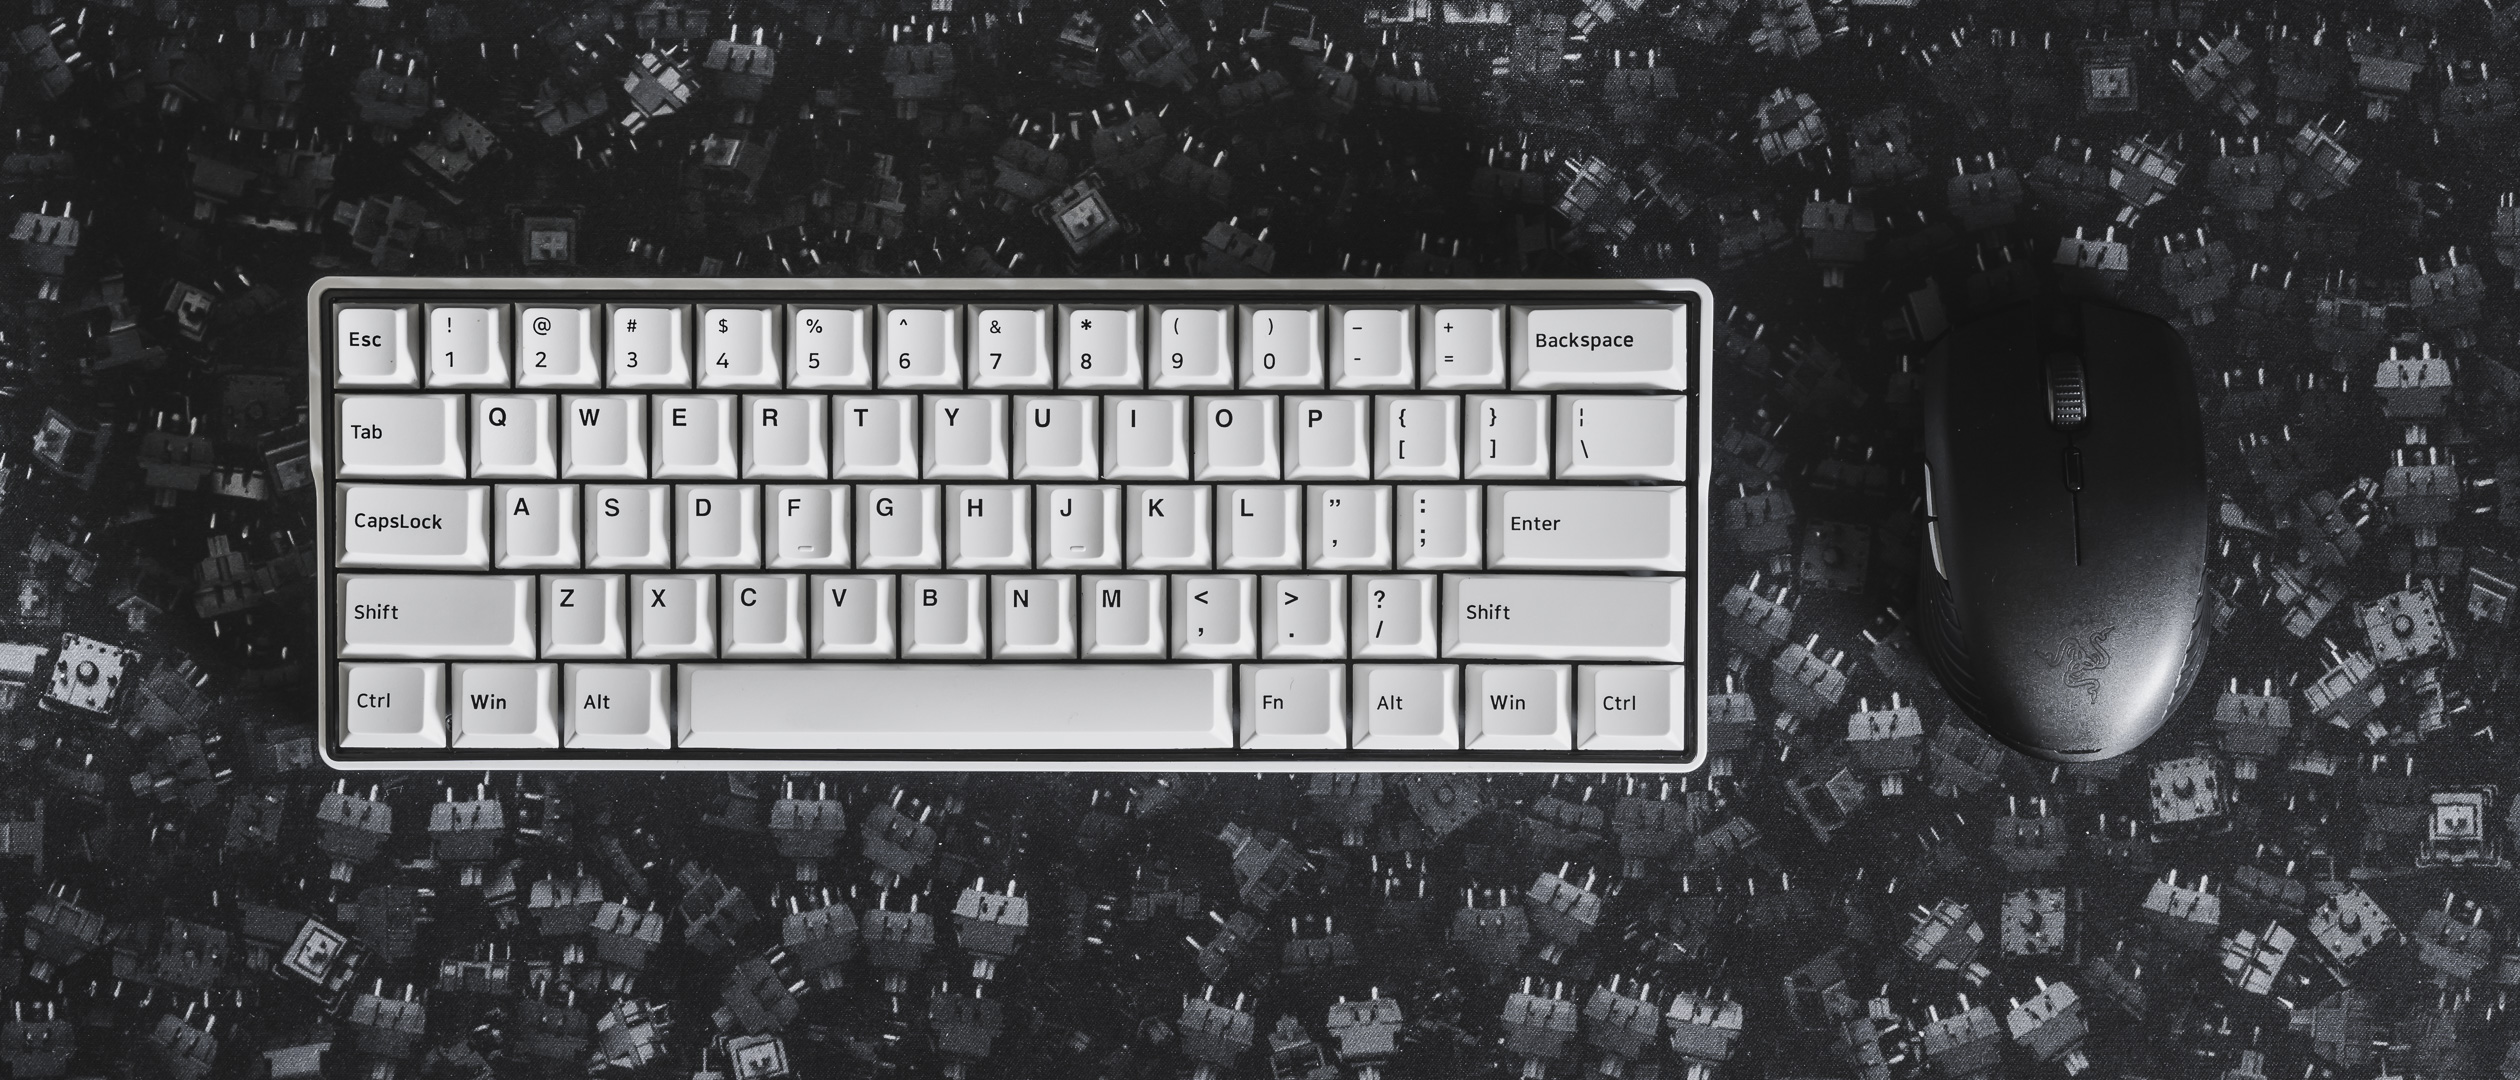
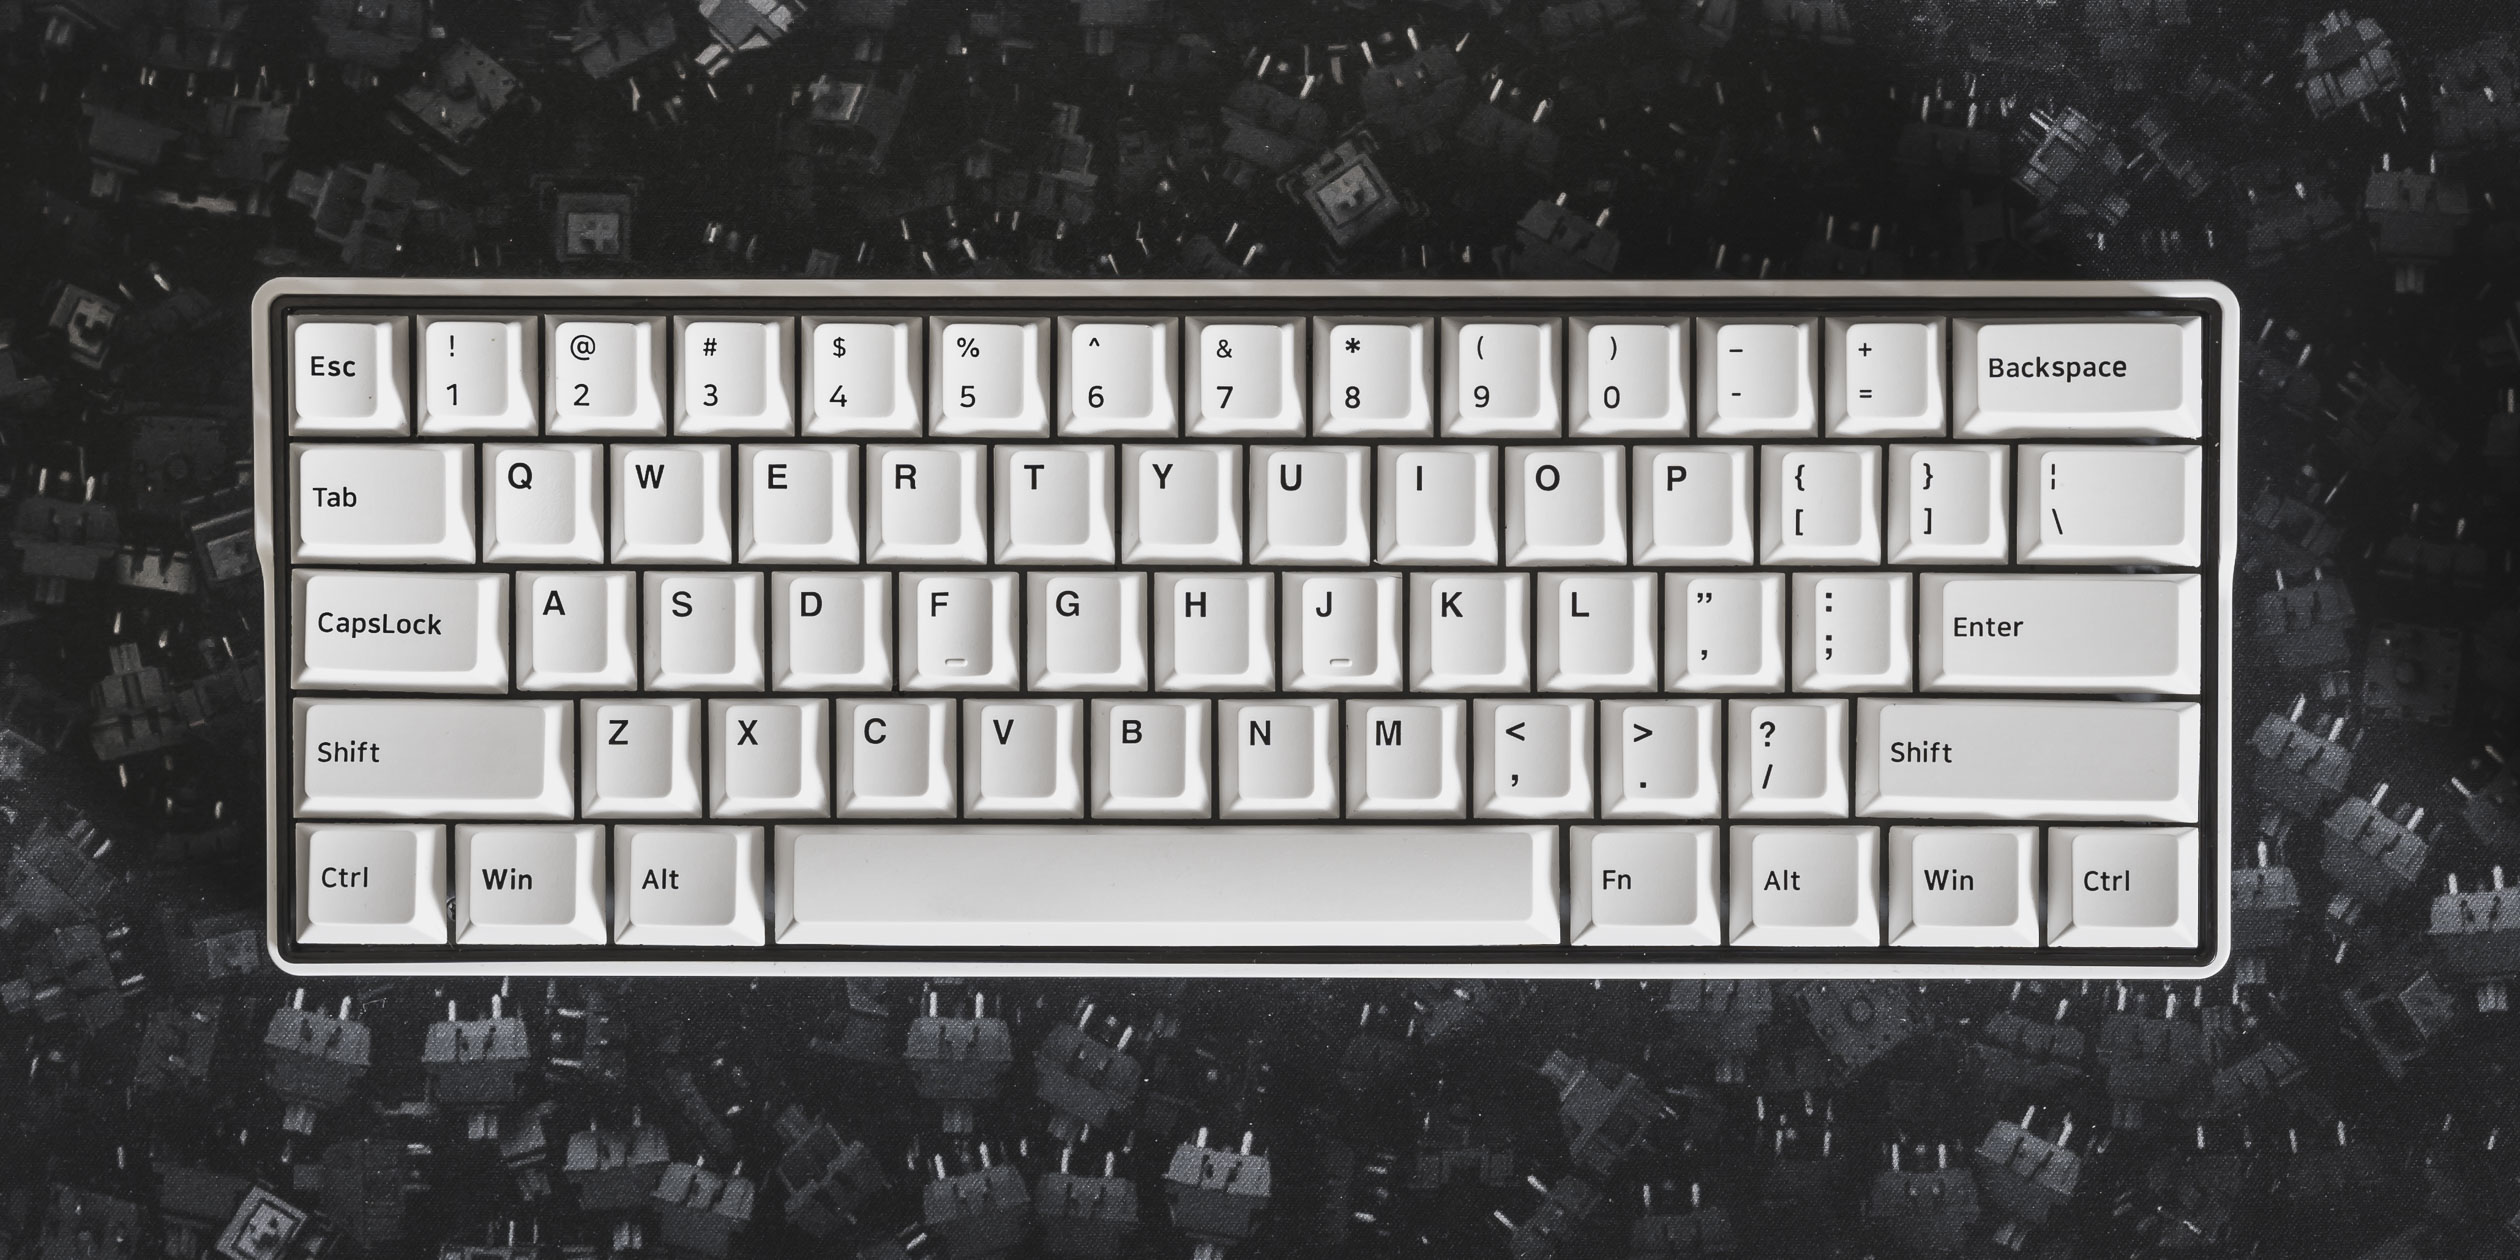
changed font and updated keyboard photo

diff --git a/index.html b/index.html
@@ -5,6 +5,7 @@
     <meta name="viewport" content="width=device-width, initial-scale=1">
     <title>Nathan Baker</title>
     <link rel="stylesheet" href="https://fonts.googleapis.com/css?family=Cairo">
+    <link rel="stylesheet" href="https://fonts.googleapis.com/css?family=Source+Sans+Pro:400,300">
     <link rel="stylesheet" href="styles.css">
 </head>
 
@@ -24,12 +25,14 @@
         </ul>
     </nav>
     <div>
-        <img src="assets/keyboard.jpg">
+        <!-- <img src="assets/keyboard.jpg"> -->
+        <div class="home-image" style="background-image: url('assets/keyboard.jpg');"></div>
         <p class="black cairo">
-            Hi there, I'm Nathan!<br><br>
-            I am a senior at <em>Oklahoma State University</em> studing computer science, and I'm
-            currently working as a Software Development Intern at <em>Paycom</em>.
-            <br><br>
+            Hi there, my name is Nathan! I'm a computer science student at <em>Oklahoma State University</em>,
+            and a software development intern at <em>Paycom</em>.
+            <br>
+            <!-- <a class="cairo gray" href="about">// More about me...</a><br> -->
+            <br>
             Feel free to connect with me using any of the icons below!
             <br><br>
         </p>
@@ -59,9 +62,9 @@
         </li>
     </ul>
     <p class="footer-copyright gray mono">
-        <text class="black">Copyright &copy;</text>
-        <text class="black">2021</text>
-        <text class="black image-desktop">//</text>
+        <text class="gray">Copyright &copy;</text>
+        <text class="gray">2021</text>
+        <text class="gray image-desktop">//</text>
         <br class="image-mobile">
         <text class="blue">Nathan Baker</text>
     </p>

diff --git a/styles.css b/styles.css
@@ -101,6 +101,8 @@
 
 .cairo {
     font-family: cairo;
+    font-family: "Source Sans Pro";
+    font-weight: 400;
 }
 
 .left {
@@ -125,7 +127,7 @@ h1 {
 }
 
 nav {
-    margin-top: -1rem;
+    margin-top: 0rem;
     margin-bottom: min(5vw, 4rem);
 }
 
@@ -163,8 +165,8 @@ a:hover {
 }
 
 p {
-    font-size: max(13.25pt, 2.4vw);
-    line-height: 1.2;
+    font-size: max(1rem, 2.1vw);
+    line-height: 1;
     text-align: justify;
 }
 
@@ -232,10 +234,17 @@ footer img:hover {
 .footer-copyright {
     float: left;
     height: max(40px, 2.5vw);
-    line-height: max(3.5rem, 3vw);
+    line-height: max(3.1rem, 3vw);
     margin-top: 1rem;
     margin-left: max(45px, 3vw);
-    font-size: min(2.1vw, 2.5rem);
+    font-size: min(1.9vw, 1.5rem);
+}
+
+.home-image {
+    background-size: cover;
+    background-position: center;
+    width: 100%;
+    min-height: 40vw;
 }
 
 .portfolio-card {
@@ -303,6 +312,10 @@ iframe {
     .card-title {
         font-size: min(4vw, 7rem);
     }
+
+    .home-image {
+        min-height: 36vw;
+    }
 }
 
 @media (max-width: 750px) {
@@ -351,6 +364,10 @@ iframe {
 }
 
 @media (max-aspect-ratio: 5/7) {
+    nav {
+        margin-top: -1rem;
+    }
+
     .card-title {
         font-size: 7vw;
     }

diff --git a/about/index.html b/about/index.html
@@ -5,6 +5,7 @@
     <meta name="viewport" content="width=device-width, initial-scale=1">
     <title>Nathan Baker</title>
     <link rel="stylesheet" href="https://fonts.googleapis.com/css?family=Cairo">
+    <link rel="stylesheet" href="https://fonts.googleapis.com/css?family=Source+Sans+Pro:400,300">
     <link rel="stylesheet" href="../styles.css">
 </head>
 
@@ -65,11 +66,11 @@
         </li>
     </ul>
     <p class="footer-copyright gray mono">
-        <text class="black">Copyright &copy;</text>
-        <text class="black">2021</text>
-        <text class="black image-desktop">//</text>
+        <text class="gray">Copyright &copy;</text>
+        <text class="gray">2021</text>
+        <text class="gray image-desktop">//</text>
         <br class="image-mobile">
-        <text class="green">Nathan Baker</text>
+        <text class="blue">Nathan Baker</text>
     </p>
 </footer>
 

diff --git a/portfolio/code/index.html b/portfolio/code/index.html
@@ -5,6 +5,7 @@
     <meta name="viewport" content="width=device-width, initial-scale=1">
     <title>Nathan Baker</title>
     <link rel="stylesheet" href="https://fonts.googleapis.com/css?family=Cairo">
+    <link rel="stylesheet" href="https://fonts.googleapis.com/css?family=Source+Sans+Pro">
     <link rel="stylesheet" href="../../styles.css">
 </head>
 
@@ -66,11 +67,11 @@
         </li>
     </ul>
     <p class="footer-copyright gray mono">
-        <text class="black">Copyright &copy;</text>
-        <text class="black">2021</text>
-        <text class="black image-desktop">//</text>
+        <text class="gray">Copyright &copy;</text>
+        <text class="gray">2021</text>
+        <text class="gray image-desktop">//</text>
         <br class="image-mobile">
-        <text class="purple">Nathan Baker</text>
+        <text class="blue">Nathan Baker</text>
     </p>
 </footer>
 

diff --git a/portfolio/video/index.html b/portfolio/video/index.html
@@ -5,6 +5,7 @@
     <meta name="viewport" content="width=device-width, initial-scale=1">
     <title>Nathan Baker</title>
     <link rel="stylesheet" href="https://fonts.googleapis.com/css?family=Cairo">
+    <link rel="stylesheet" href="https://fonts.googleapis.com/css?family=Source+Sans+Pro">
     <link rel="stylesheet" href="../../styles.css">
 </head>
 
@@ -73,11 +74,11 @@
         </li>
     </ul>
     <p class="footer-copyright gray mono">
-        <text class="black">Copyright &copy;</text>
-        <text class="black">2021</text>
-        <text class="black image-desktop">//</text>
+        <text class="gray">Copyright &copy;</text>
+        <text class="gray">2021</text>
+        <text class="gray image-desktop">//</text>
         <br class="image-mobile">
-        <text class="orange">Nathan Baker</text>
+        <text class="blue">Nathan Baker</text>
     </p>
 </footer>
 

diff --git a/portfolio/photo/index.html b/portfolio/photo/index.html
@@ -5,6 +5,7 @@
     <meta name="viewport" content="width=device-width, initial-scale=1">
     <title>Nathan Baker</title>
     <link rel="stylesheet" href="https://fonts.googleapis.com/css?family=Cairo">
+    <link rel="stylesheet" href="https://fonts.googleapis.com/css?family=Source+Sans+Pro">
     <link rel="stylesheet" href="../../styles.css">
 </head>
 
@@ -70,11 +71,11 @@
         </li>
     </ul>
     <p class="footer-copyright gray mono">
-        <text class="black">Copyright &copy;</text>
-        <text class="black">2021</text>
-        <text class="black image-desktop">//</text>
+        <text class="gray">Copyright &copy;</text>
+        <text class="gray">2021</text>
+        <text class="gray image-desktop">//</text>
         <br class="image-mobile">
-        <text class="pink">Nathan Baker</text>
+        <text class="blue">Nathan Baker</text>
     </p>
 </footer>
 

diff --git a/portfolio/index.html b/portfolio/index.html
@@ -5,6 +5,7 @@
     <meta name="viewport" content="width=device-width, initial-scale=1">
     <title>Nathan Baker</title>
     <link rel="stylesheet" href="https://fonts.googleapis.com/css?family=Cairo">
+    <link rel="stylesheet" href="https://fonts.googleapis.com/css?family=Source+Sans+Pro:400,300">
     <link rel="stylesheet" href="../styles.css">
 </head>
 
@@ -70,11 +71,11 @@
         </li>
     </ul>
     <p class="footer-copyright gray mono">
-        <text>Copyright &copy;</text>
-        <text>2021</text>
-        <text class="image-desktop">//</text>
+        <text class="gray">Copyright &copy;</text>
+        <text class="gray">2021</text>
+        <text class="gray image-desktop">//</text>
         <br class="image-mobile">
-        <text class="red">Nathan Baker</text>
+        <text class="blue">Nathan Baker</text>
     </p>
 </footer>
 
